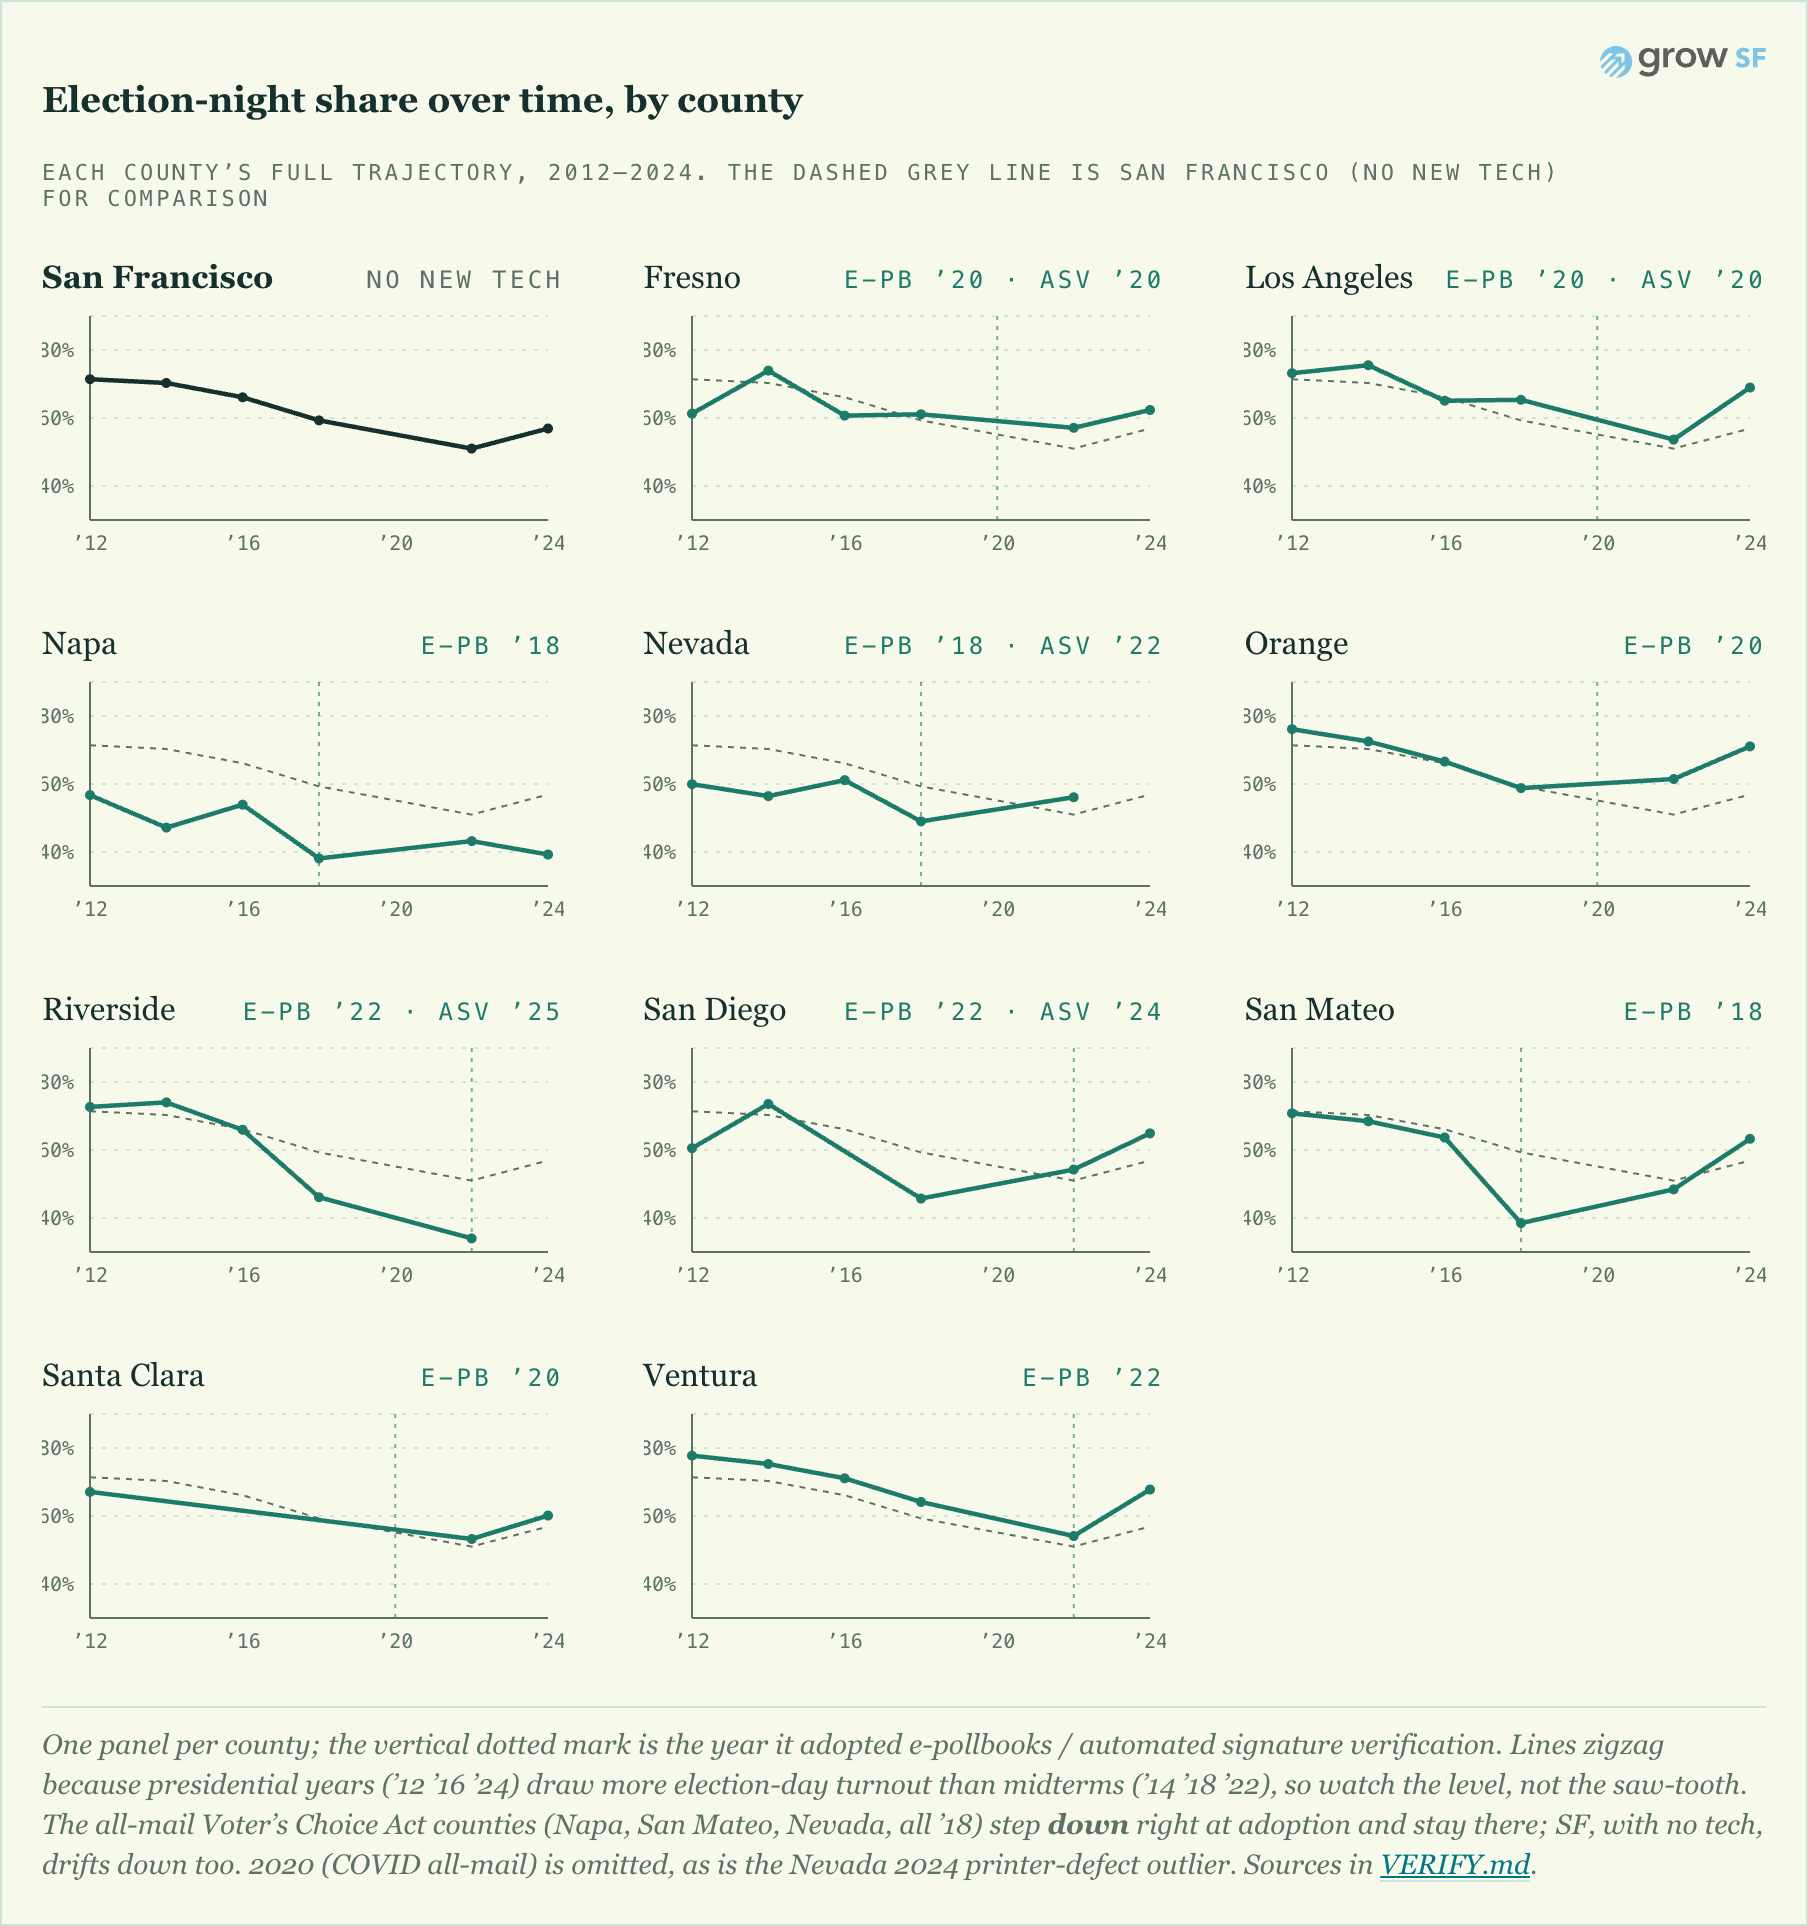
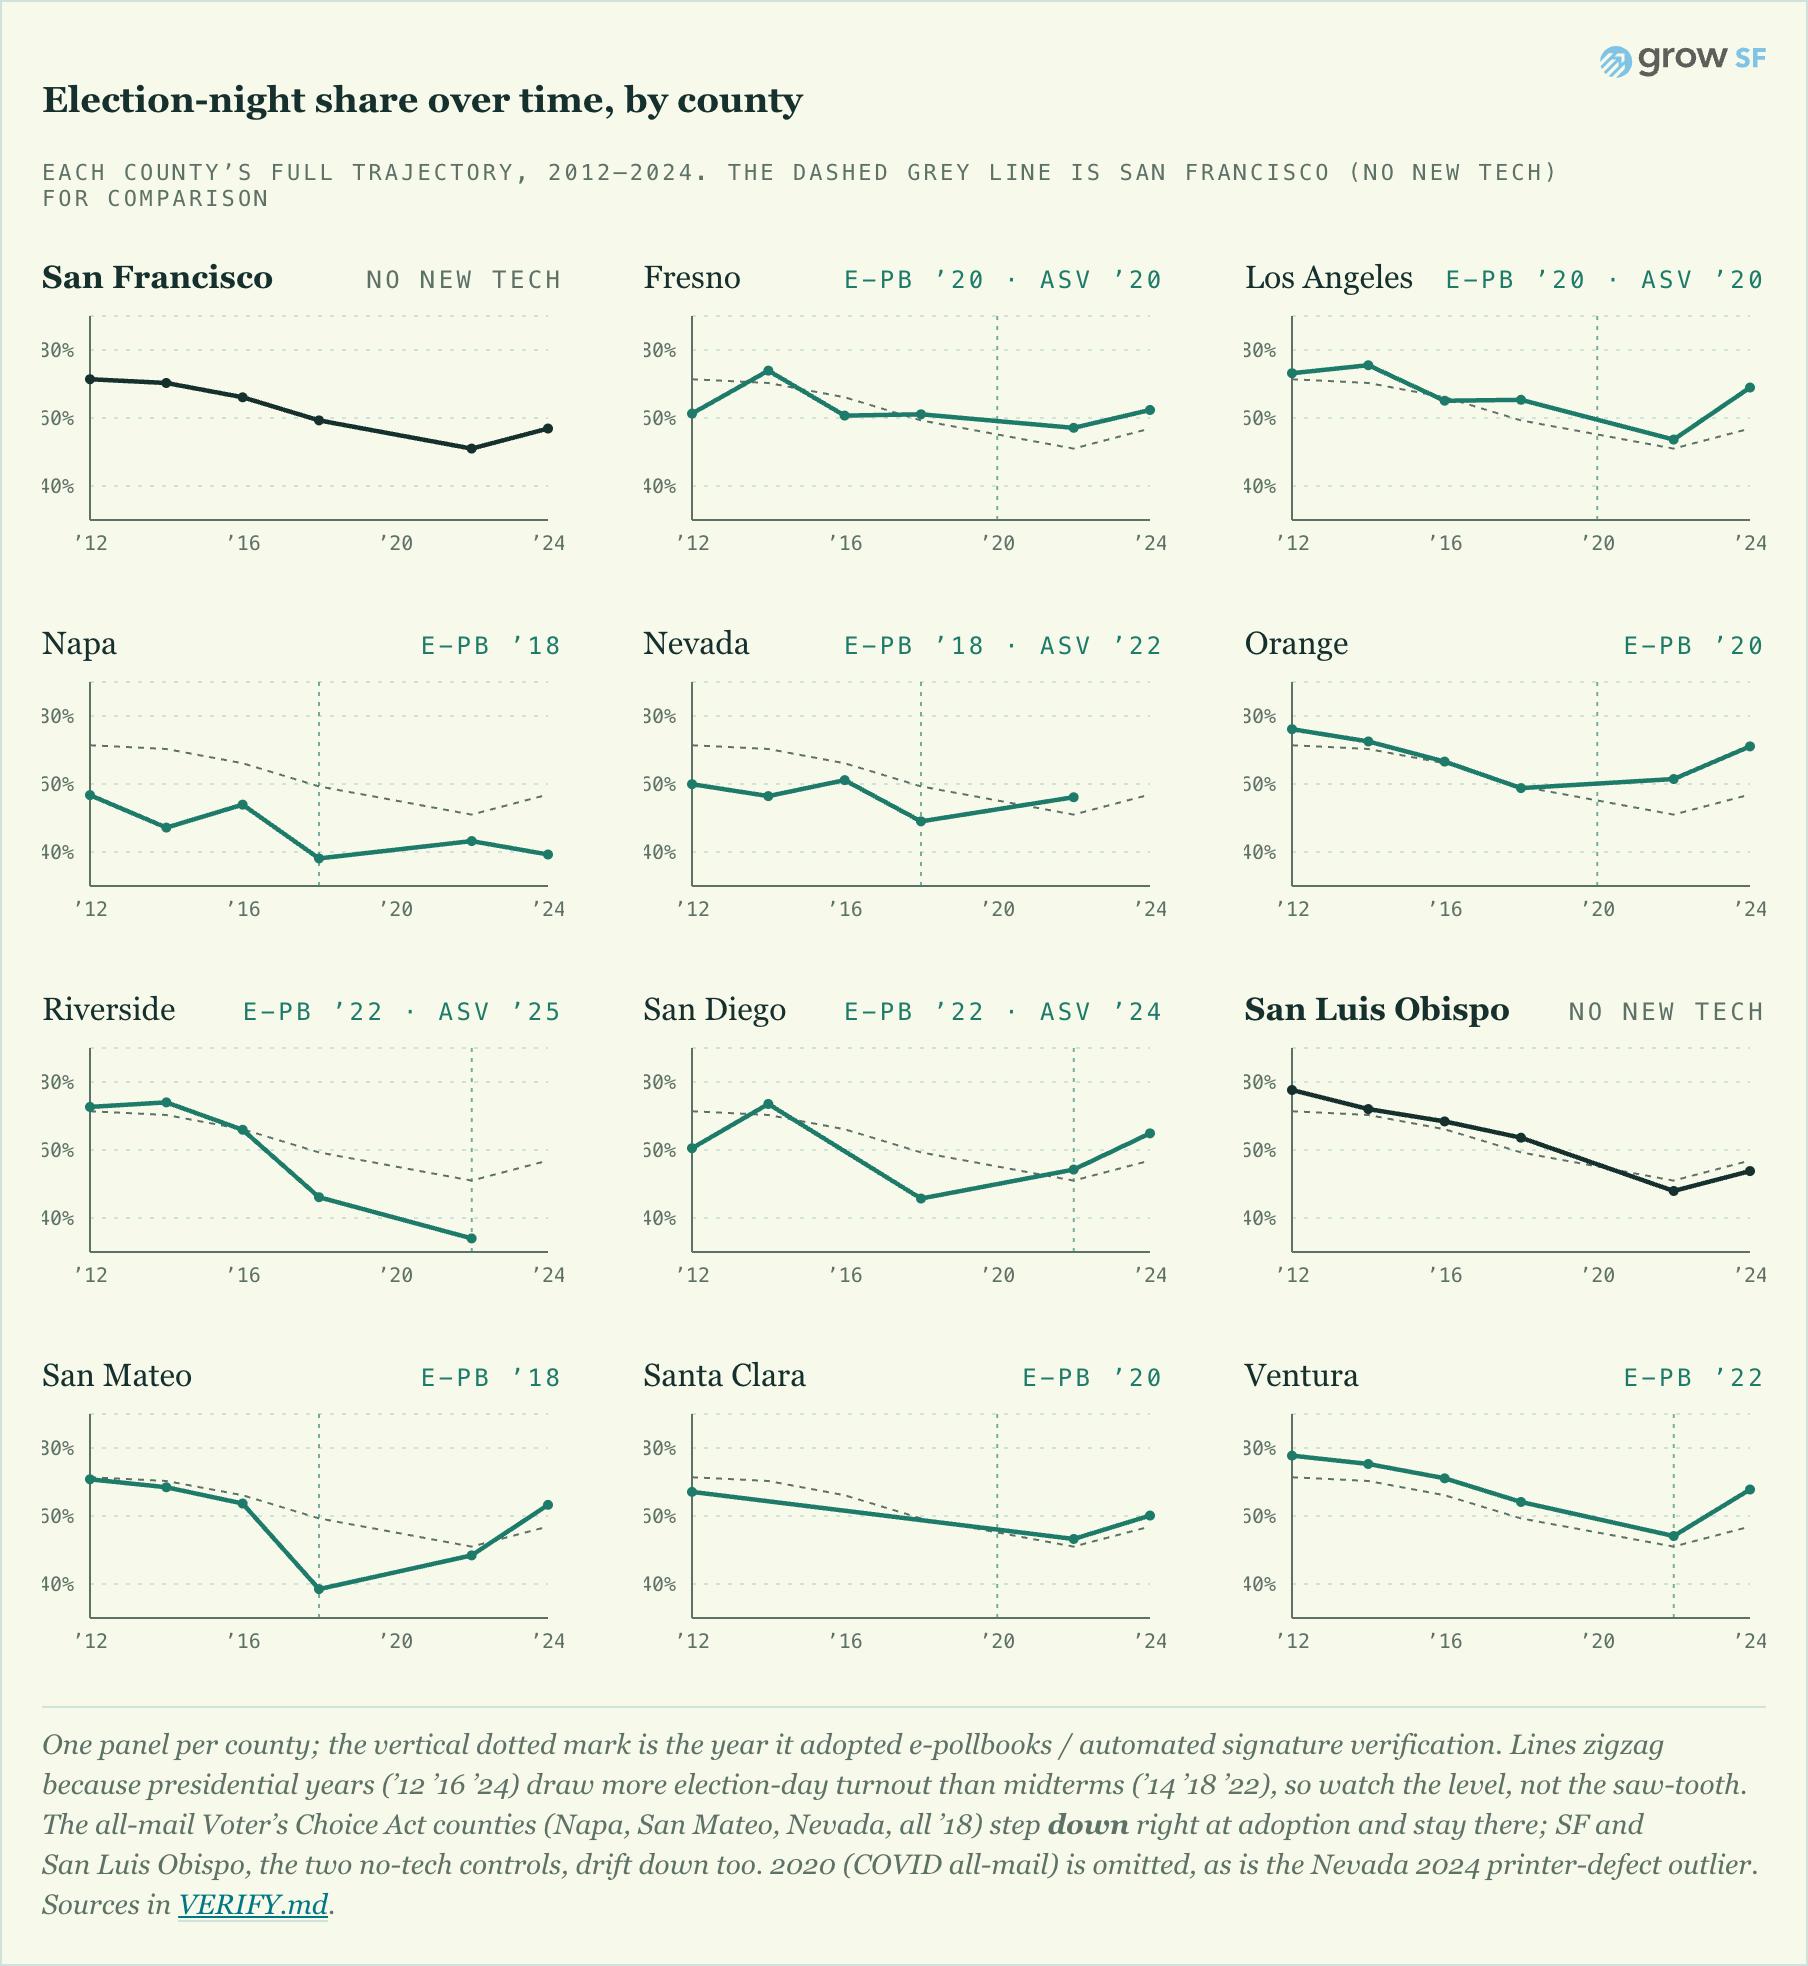
feat: render second control counties on the county night timeline chart
San Luis Obispo (control, complete) now gets its own panel with the SF
baseline overlaid, per operator decision. Test asserts all 12 panels.

Claude-Session: https://claude.ai/code/session_01RFBAvAagWzswQPHe9JJfvj

diff --git a/packages/charts/src/components/CountyNightTimelineChart.tsx b/packages/charts/src/components/CountyNightTimelineChart.tsx
@@ -59,11 +59,13 @@ export default function CountyNightTimelineChart() {
   const ink = theme.ink;
 
   const shown = COUNTY_NIGHT.jurisdictions.filter((j) => j.control || j.complete);
-  const sf = shown.find((j) => j.control);
+  // SF is the baseline overlay; every other control (e.g. San Luis Obispo)
+  // still gets its own panel like any county.
+  const sf = shown.find((j) => j.slug === "san-francisco") ?? shown.find((j) => j.control);
   const sfSeries = sf ? seriesFor(sf) : YEARS.map((year) => ({ year, v: null }));
   const ordered = [
     ...(sf ? [sf] : []),
-    ...shown.filter((j) => !j.control),
+    ...shown.filter((j) => j !== sf),
   ];
 
   return (
@@ -78,7 +80,8 @@ export default function CountyNightTimelineChart() {
           midterms (’14 ’18 ’22), so watch the <em>level</em>, not the saw-tooth.
           The all-mail Voter’s Choice Act counties (Napa, San&nbsp;Mateo,
           Nevada, all ’18) step <strong>down</strong> right at adoption and stay
-          there; SF, with no tech, drifts down too. 2020 (COVID all-mail) is
+          there; SF and San&nbsp;Luis&nbsp;Obispo, the two no-tech controls,
+          drift down too. 2020 (COVID all-mail) is
           omitted, as is the Nevada 2024 printer-defect outlier. Sources in{" "}
           <a
             href="https://github.com/Grow-SF/sf-election-historical-counts/blob/main/data/research/election-night/VERIFY.md"
@@ -174,7 +177,7 @@ export default function CountyNightTimelineChart() {
                       strokeOpacity={0.6}
                     />
                   ) : null}
-                  {!j.control ? (
+                  {j !== sf ? (
                     <Line
                       dataKey="sf"
                       stroke={theme.faint}

diff --git a/packages/charts/src/components/CountyNightTimelineChart.test.tsx b/packages/charts/src/components/CountyNightTimelineChart.test.tsx
@@ -7,14 +7,20 @@ test("county night-share timeline renders its title and one panel per complete c
   expect(
     screen.getByText("Election-night share over time, by county"),
   ).toBeInTheDocument();
-  // the control + the five complete counties each get a panel heading
+  // both controls + every complete county get a panel heading
   for (const name of [
     "San Francisco",
+    "San Luis Obispo",
     "Los Angeles",
     "Napa",
     "Nevada",
     "Orange",
     "San Mateo",
+    "Ventura",
+    "Santa Clara",
+    "San Diego",
+    "Fresno",
+    "Riverside",
   ]) {
     expect(screen.getByText(name)).toBeInTheDocument();
   }

diff --git a/docs/research/night-recovery-2026-07-09/county-en/SUMMARY.md b/docs/research/night-recovery-2026-07-09/county-en/SUMMARY.md
@@ -261,3 +261,6 @@ notes for 2016-11-08, 2018-11-06, 2022-11-08). What a FAIL looks like: if a
 second, independent outlet contradicts YubaNet's stated ballot count or
 timing for any of the three years, since the dataset currently has no
 corroborating second source for any of them.
+
+
+UPDATE (2026-07-09, post-rollup): the second-control chart limitation is resolved. CountyNightTimelineChart now renders every complete jurisdiction (San Luis Obispo included, drawn as a control with the SF baseline overlaid), 12 panels total. chart-after.png regenerated from the worktree preview and verified against the live render.